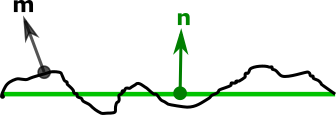
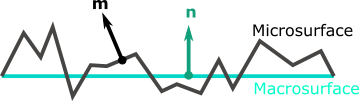
Update math-typesetting-2020

diff --git a/content/post/math-typesetting-2020.md b/content/post/math-typesetting-2020.md
@@ -70,7 +70,9 @@ In the well known computer graphics paper *"Microfacet Models for Refraction thr
 
 Where \\(f_s\\) and \\(f_s^m\\) are the macrosurface and the microsurface BSDFs correspondingly, \\(G\\) and \\(D\\) are the shadowing-masking and the normal distribution functions as specified in the microfacet model, \\(\bold i\\) is the incident light direction, \\(\bold o\\) is the outgoing light direction, \\(\bold n\\) is the macrosurface normal and \\(\bold m\\) is the microsurface normal. \\(H^2(\bold n)\\) denotes the hemisphere of directions about a given surface normal \\(\bold n\\).
 
-We can get the above formula by computing the *radiant flux* due to reflected or refracted light. Radiant flux is how the *power* is called in radiometry, i.e. the amount of energy the light carries through the region of space per unit time. We are going to compute the flux twice. At first by using the macrosurface BSDF and the second time the same quantity will be computed based on the microsurface BSDF. Then we can get the equation \\((1)\\) by equating both results. The wavelength dependency of radiometric quantities is ommited here for simplicity. In the calculations that follow we observe the incoming and outgoing light in a narrow set a directions defined by the differential solid angles \\(d\omega_i\\) and \\(d\omega_o\\) correspondingly, which also define directions \\(\bold i\\) and \\(\bold o\\).
+![microsurface](/math-test/microsurface.png#center)
+
+We can obtain formula \\((1)\\) by computing the *radiant flux* due to reflected or refracted light. Radiant flux is how the *power* is called in radiometry, i.e. the amount of energy the light carries through the region of space per unit time. We are going to compute the flux twice. At first by using the macrosurface BSDF and the second time the same quantity will be computed based on the microsurface BSDF. Then we can get the equation \\((1)\\) by equating both results. The wavelength dependency of radiometric quantities is ommited for simplicity. In the calculations that follow we observe the incoming and outgoing light in a narrow set a directions defined by the differential solid angles \\(d\omega_i\\) and \\(d\omega_o\\) correspondingly, which also define directions \\(\bold i\\) and \\(\bold o\\).
 
 ###### a) Flux computation according to macrosurface BSDF $$f_s$$
 Let's start by calculating irradiance due to the light from solid angle \\(d\omega_i\\):
@@ -142,5 +144,3 @@ By using specific microsurface BSDFs we can derive BSDF expressions that are com
    {F(\bold i, \bold h_r) G(\bold i, \bold o, \bold h_r) D(\bold h_r)}
    {4\lvert|\bold i \cdot \bold n\rvert \lvert|\bold o \cdot \bold n\rvert}
  \\]
-
-![microsurface](/math-test/microsurface.png)
